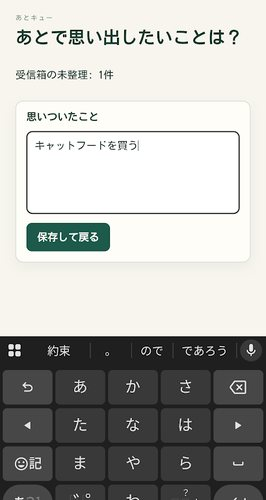
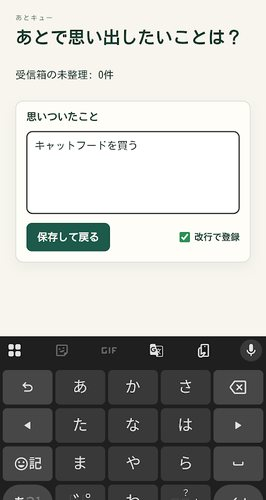
Add files via upload

diff --git a/index.html b/index.html
@@ -107,6 +107,14 @@ button.more:focus-visible,a.visit:focus-visible{outline:2px solid var(--navy-lif
 .record dd{font-size:13px;line-height:1.75;color:var(--ink)}
 .record .sub{display:block;width:100%;margin-top:14px;border:1px solid var(--line);border-radius:4px}
 .record .icon-sm{display:block;width:56px;height:56px;margin-top:14px;border-radius:13px;border:1px solid var(--line)}
+.record .origin{
+  margin-top:14px;padding-top:11px;border-top:1px solid var(--line-soft);
+  font-size:12px;line-height:1.7;color:var(--muted);
+}
+.record .origin b{
+  font-family:var(--mono);font-size:10px;letter-spacing:.06em;
+  color:var(--gray);font-weight:400;margin-right:9px;
+}
 @media(max-width:420px){
   .record dl{grid-template-columns:1fr;gap:2px 0}
   .record dd{margin-bottom:9px}
@@ -263,11 +271,29 @@ const SECTIONS = [
         icon: "img/atoqueue-icon.jpg",
         sub: ["img/atoqueue.jpg", "img/atoqueue-notify.jpg"],
         url: "https://atoqueue.sikumilab.com/",
+        origin: "あとで対応することをqueue（待ち行列）に入れる、という意味。cue（合図）も掛けている。",
         record: {
-          q: "作業中に浮かんだ用事を、集中を切らさずに逃がす方法はないか気になった。",
-          m: "入力時に分類を求めない受信箱、あとから整理する画面、放置の度合いに応じて声を掛ける「今日の確認」を持つPWAにした。本文は端末内のlocalStorageだけに置き、サーバーへは匿名の通知予約しか送らない。通知に出せるのは「確認したい項目があります」だけで、中身は端末の外に出ない。",
+          q: "作業中に浮かんだ用事を、集中を切らさずに逃がす方法はないか気になった。「すごく良いアイデアだった気がするけど思い出せない」という経験は誰にでもあるはずで、そこを取りこぼしたくなかった。",
+          m: "あとキューに「あとで思い出したいこと」を入力する。書いた時点で受信箱に入り、分類は後から決める。受信箱の中身をタスクやメモに振り分け、タスクには期限を設定する。タスクの期限通知、期限を過ぎたタスク、未整理のメモについてもリマインドを行い、見直せるようにした。頻度は設定画面から変えられる。本文は端末内のlocalStorageだけに置き、サーバーへは匿名の通知予約しか送らない。通知に本文は出さない設計にしている。",
           w: "通知がなかなか飛ばなかった。PWAだけでは閉じている間の定期実行を保証できないのでWeb Push用の最小のバックエンドを併設したが、そこから先が長かった。バックエンド側の配送処理、端末側の通知設定、ブラウザの権限と、要因が複合していて、一つずつ潰していくしかない。しかも一定時間後に飛ぶ仕組みなので、待っては飛ばず、直しては待つの繰り返しだった。",
           a: "設計を終えて開発中。ひととおり触れる状態になったので公開した。いまも手を入れている最中。"
+        }
+      },
+      {
+        name: "ココロパレア",
+        state: "稼働中", live: true,
+        tech: "JavaScript / GitHub Pages / IPIP日本語50項目版",
+        lede: "ビッグファイブの性格特性を、20問から測れる自己理解ツールです。",
+        image: "img/kokoro.jpg",
+        icon: "img/kokoro-icon.jpg",
+        sub: ["img/kokoro-intro.jpg", "img/kokoro-2.jpg"],
+        url: "https://kokoro.sikumilab.com/",
+        origin: "ココロ（自分の心）、パレット（色を選ぶ）、アロマ（香り）を掛けた名前。",
+        record: {
+          q: "スピリチュアルでない診断アプリを作りたくて着手した。",
+          m: "IPIP日本語50項目版を使い、20問の簡易プレビューから、希望すれば50問の詳細まで進める二段構えにした。判定はきちんとしつつ、心理学の専門家に評価してもらえる人脈もないため、エンタメ要素を多めに入れた。猫の「もなか」をイメージキャラクターに据え、画像の用意、判定文の添削、アロマ要素とパレットの確認で、なかなかの作業量になった。",
+          w: "断定的な性格タイプに見せると誤解を生むため、あくまで自己理解の材料であることを画面上で明示する必要があった。",
+          a: "「もなか」が可愛く表現できた。初めてブランドイメージを真面目に検討した回で、シクミラボという名前もここから生まれた。"
         }
       },
       {
@@ -331,27 +357,13 @@ const SECTIONS = [
         }
       },
       {
-        name: "ココロパレア",
-        state: "稼働中", live: true,
-        tech: "JavaScript / GitHub Pages / IPIP日本語50項目版",
-        lede: "ビッグファイブの性格特性を、20問から測れる自己理解ツールです。",
-        image: "img/kokoro.jpg",
-        sub: ["img/kokoro-intro.jpg", "img/kokoro-2.jpg"],
-        url: "https://kokoro.sikumilab.com/",
-        record: {
-          q: "スピリチュアルでない診断アプリを作りたくて着手した。",
-          m: "IPIP日本語50項目版を使い、20問の簡易プレビューから、希望すれば50問の詳細まで進める二段構えにした。判定はきちんとしつつ、心理学の専門家に評価してもらえる人脈もないため、エンタメ要素を多めに入れた。猫の「もなか」をイメージキャラクターに据え、画像の用意、判定文の添削、アロマ要素とパレットの確認で、なかなかの作業量になった。",
-          w: "断定的な性格タイプに見せると誤解を生むため、あくまで自己理解の材料であることを画面上で明示する必要があった。",
-          a: "「もなか」が可愛く表現できた。初めてブランドイメージを真面目に検討した回で、シクミラボという名前もここから生まれた。"
-        }
-      },
-      {
         name: "GALAXY SHOT",
         state: "公開中", live: true,
         tech: "HTML5 Canvas / Web Audio API",
         lede: "1ファイルに詰め込んだシューティング。パワーアップもBGMもあります。",
         image: "img/galaxy-shot.jpg",
         url: "https://galaxy.sikumilab.com/",
+        origin: "1970年代末のアーケードシューティングをモチーフにした名前。",
         record: {
           q: "HTML5 CanvasとWeb Audio APIだけで、シューティングがどこまで作れるか試した。",
           m: "1ファイルの中に、パワーアップ、ボーナスステージ、BGM、モバイル向けパッド、LocalStorageのランキングまで詰め込んだ。",
@@ -644,7 +656,7 @@ function cardHTML(item, id){
         <dt>ぶつかったこと</dt><dd>${esc(r.w)}</dd>
         <dt>どうしたか</dt><dd>${esc(r.a)}</dd>
       </dl>
-      ${item.icon ? `<img class="icon-sm" src="${esc(item.icon)}" alt="${esc(item.name)}のアイコン" loading="lazy">` : ''}
+      ${item.origin ? `<p class="origin"><b>名前の由来</b>${esc(item.origin)}</p>` : ''}
       ${(item.sub ? [].concat(item.sub) : []).map(src =>
         `<img class="sub" src="${esc(src)}" alt="${esc(item.name)}の画面" loading="lazy">`).join('')}
     </div>
